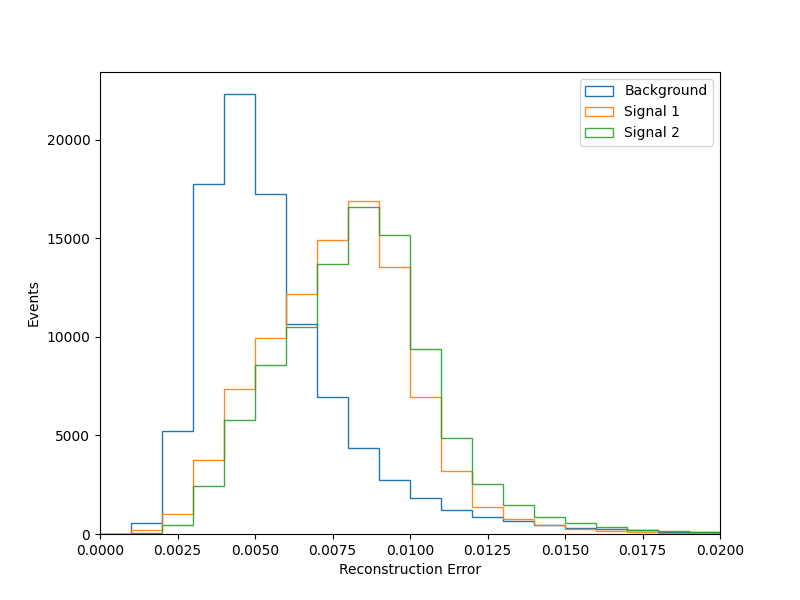
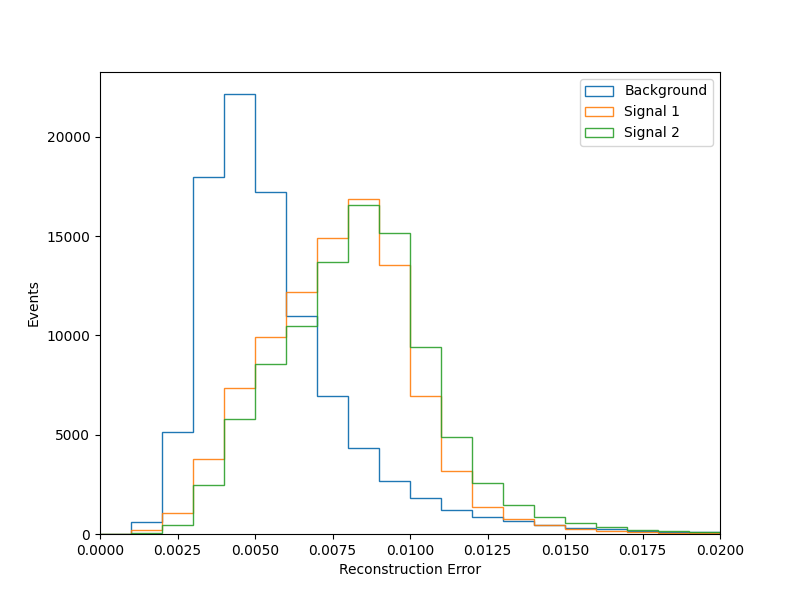
Testing with minmax scaling and 84, 14 layer dimensions

diff --git a/test.py b/test.py
@@ -131,12 +131,12 @@ loss_sig2_total = loss_sig2.sum(axis=1) / 42
 # Plot Total Reconstruction Error
 nbins = 20
 fig, axes = plt.subplots(figsize=(8,6))
-axes.hist([loss_bkg_total], nbins, range=(0, 0.015), density=0, histtype='step', label=['Background'], stacked=True, alpha=1)
-axes.hist([loss_sig1_total], nbins, range=(0, 0.015), density=0, histtype='step', label=['Signal 1'], stacked=True, alpha=0.9)
-axes.hist([loss_sig2_total], nbins, range=(0, 0.015), density=0, histtype='step', label=['Signal 2'], stacked=True, alpha=0.9)
+axes.hist([loss_bkg_total], nbins, range=(0, 0.02), density=0, histtype='step', label=['Background'], stacked=True, alpha=1)
+axes.hist([loss_sig1_total], nbins, range=(0, 0.02), density=0, histtype='step', label=['Signal 1'], stacked=True, alpha=0.9)
+axes.hist([loss_sig2_total], nbins, range=(0, 0.02), density=0, histtype='step', label=['Signal 2'], stacked=True, alpha=0.9)
 axes.set_xlabel(r"Reconstruction Error")
 axes.set_ylabel("Events")
-axes.set_xlim(0, 0.015)
+axes.set_xlim(0, 0.02)
 axes.legend(loc='upper right')
 fig.savefig(f"figs/testing/reconstruction_error_{scale}_{mid_dim}_{latent_dim}.png")
 
